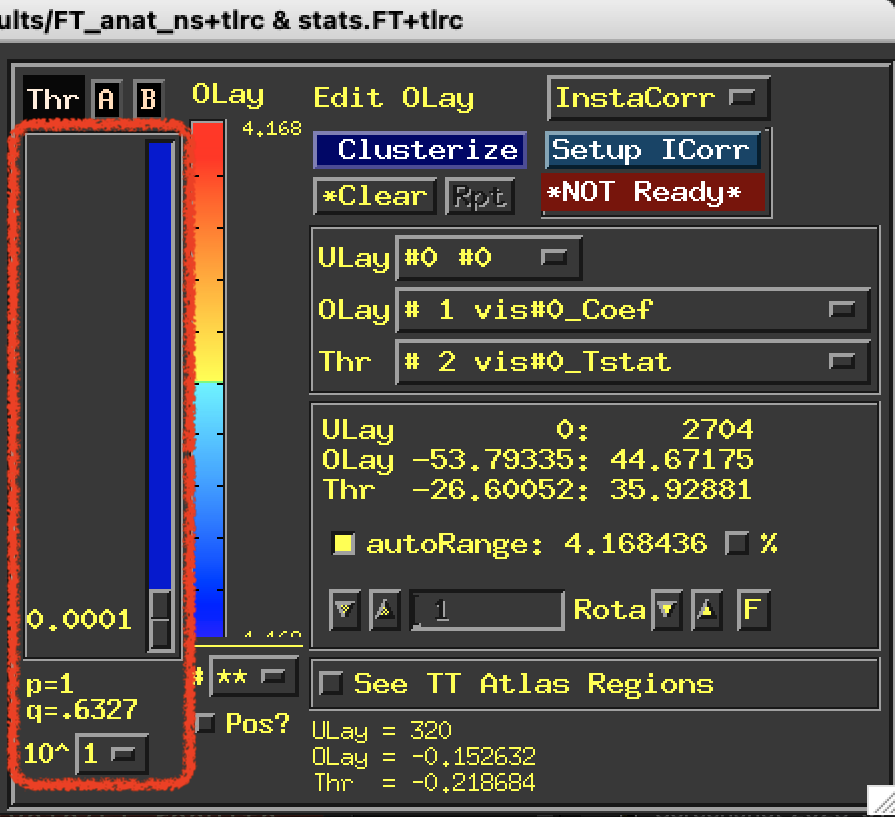
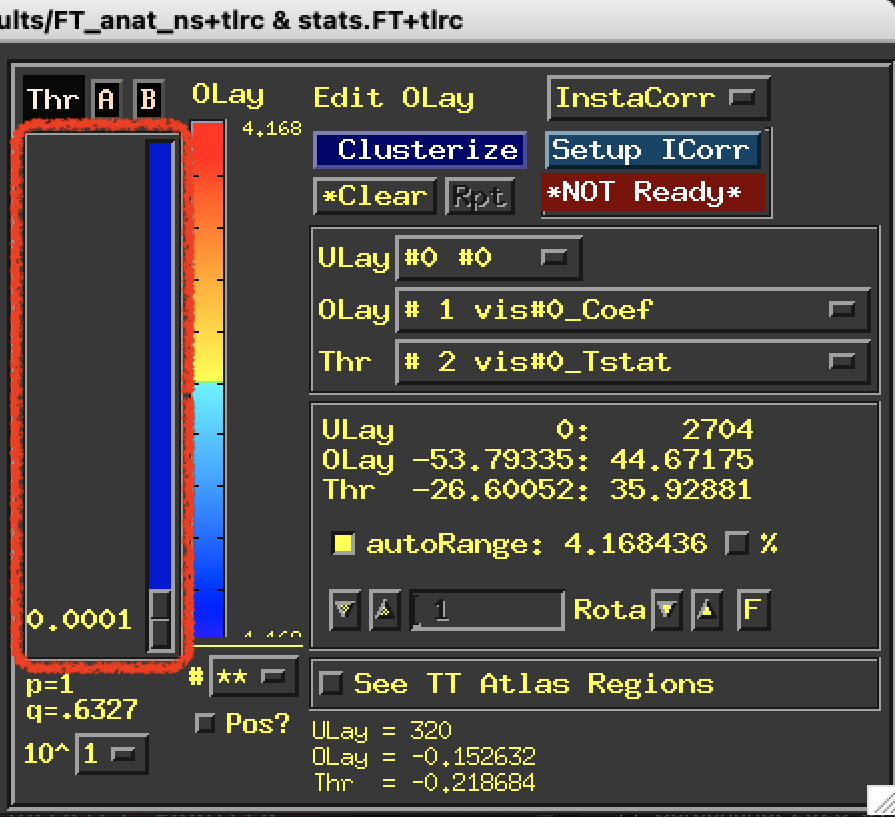
gui guide overlay additions and assets

Changed region(s): [[0.0, 0.1224, 0.2413, 0.9792]]

diff --git a/afniandafni/gui_guide/afni_gui_overlay.rst b/afniandafni/gui_guide/afni_gui_overlay.rst
@@ -21,7 +21,8 @@ Define Overlay
          panel. This will control the thresholds, colors, etc. for overlays.
        * You usually want to have the ``See OverLay`` button checked.
        * When you choose an overlay dataset, this panel *should* automatically 
-         open and check the ``See OverLay`` button.
+         open, check the ``See OverLay`` button, and select some reasonable 
+         sub-bricks for the ``OLay`` and ``Thr``.
        * For this guide we will load a stats dataset from the output of 
          ``afni_proc.py``.
        
@@ -170,11 +171,110 @@ Define Overlay
            never seen one of these datasets...)
          * Threshold applies to the ``Thr`` sub-brick.
          
-       * The value shown to the left of the slider  is between 0 and 1 
+       * The value shown to the left of the slider is between 0 and 1 
          (modified by a power of 10 as explained below).
-       * 
 
      - .. image:: media/overlay_main_thr_slider.png
+          :width: 100%
+          :align: right
+
+.. _gui_guide_overlay_p_q_10:
+
+.. list-table::
+   :widths: 60 40
+   :header-rows: 1
+
+   * - :ref:`p value etc^<gui_guide_overlay_p_q_10>`
+     - 
+   * - * The ``p=`` displays the estimated significance (p-value) of the 
+         threshold slider if possible. This is the 'uncorrected' or per-voxel 
+         value of 'p'. (This will display '[NA]' if not possible)
+       * p values displayed as ``1.2-7`` are shorthand for ``1.2 x 10^(-7)``.
+       * ``q=``: if FDR curves are pre-computed in the dataset header, then 
+         the False Discovery Rate q value will also be shown. FDR q is the 
+         estimate of above-threshold voxels that are false detections 
+         ('false positives').
+         
+         * You can add FDR curves to a dataset with ``3drefit -addFDR`` or by 
+           using the ``Add FDR Curves`` button in the hidden popup menu under 
+           the label atop the threshold slider (shown below).
+
+       * The ``10^`` drop down sets the power-of-10 range of the threshold 
+         slider. If it is set to 1 (default in most cases), the slider range 
+         will be ~0.0 to ~10.0. If it is set to 0, the range is ~0.0 to ~1.0,
+         etc. The color bar is mapped to the slider range by the ``autoRange`` 
+         or manually chosen range. 
+       * If you hover over the ``p=`` or ``q=``, you will get a popup hint 
+         that displays some stats.
+
+         .. list-table::
+             :width: 100%
+             :align: center
+             :header-rows: 0
+ 
+             * - .. image:: media/overlay_main_p_q_10_pval_hover.png
+                   :width: 100%
+
+         * The ``Uncorrected p=`` is the same value displayed in the gui but 
+           with more digits.
+         * The ``alpha(p)=`` is the approximate likelihood that the p value 
+           shown results from the null hypothesis, not the alternative.
+         * ``FDR q=`` is the same as the gui but with more digits.
+         * ``MDF=`` is a **CRUDE** estimate of the true positive voxels that 
+           are below the current threshold ('false negatives').
+
+       * If you put the cursor over the p or q area and use the scroll wheel 
+         (or 2 finger swipe on the track pad) to scroll down, you will get a 
+         popup dialog to let you enter the p value you want directly. If you 
+         scroll up, you will get a dialog to set the q value. 
+
+         .. list-table::
+             :width: 70%
+             :align: center
+             :header-rows: 0
+ 
+             * - .. image:: media/overlay_main_p_q_10_scroll_down.png
+                   :width: 100%
+               - .. image:: media/overlay_main_p_q_10_scroll_up.png
+                   :width: 100%
+
+       * There is a hidden menu that appears if you right click and hold in the 
+         p or q area. This menu also appears if you right click and hold on the 
+         ``Thr`` label atop the threshold slider.
+
+
+       .. list-table::
+          :widths: 70 30
+          :align: center
+          :header-rows: 0
+
+          * - * ``Use Threshold?`` is selected by default. If you deselect it, the 
+                threshold slider will do nothing and you will get **NO** 
+                thresholding at all.
+              * ``Thr = OLay ?`` sets the ``Thr`` sub-brick to be the same as the 
+                ``OLay`` sub-brick. This is useful for looking at full F-stats or 
+                anova's etc.
+              * ``Thr = Olay+1 ?`` (**note to staff: capitalization is wrong here**) 
+                sets the ``Thr`` sub-brick to be the next sub-brick after the 
+                ``OLay`` that is selected. This is useful for t-tests or anything 
+                with a coefficient and a T-stat.
+              * ``AutoThreshold`` uses some sort of magic incantation spun by Bob 
+                the Wise to select a threshold based on the alignment of the stars 
+                and the user's birthday. **note to staff: fix this!!**
+              * ``Set threshold`` pops up a dialog allowing you to enter a 
+                number directly. It will modify the ``10^`` selection to match the 
+                number you enter. If you enter a negative number, the threshold 
+                slider will flash and there will be an annoying beep tone.
+              * ``Set p-value`` and ``Set q-value`` will give you the same dialog 
+                boxes as shown above with the scrolling actions.
+              * ``Set p=0.001`` does what it says... Just quicker than messing with 
+                the slider.
+              * 
+            - .. image:: media/overlay_main_p_q_10_right_click.png
+                 :width: 100%
+
+
+     - .. image:: media/overlay_main_p_q_10.png
           :width: 100%
           :align: right
 
